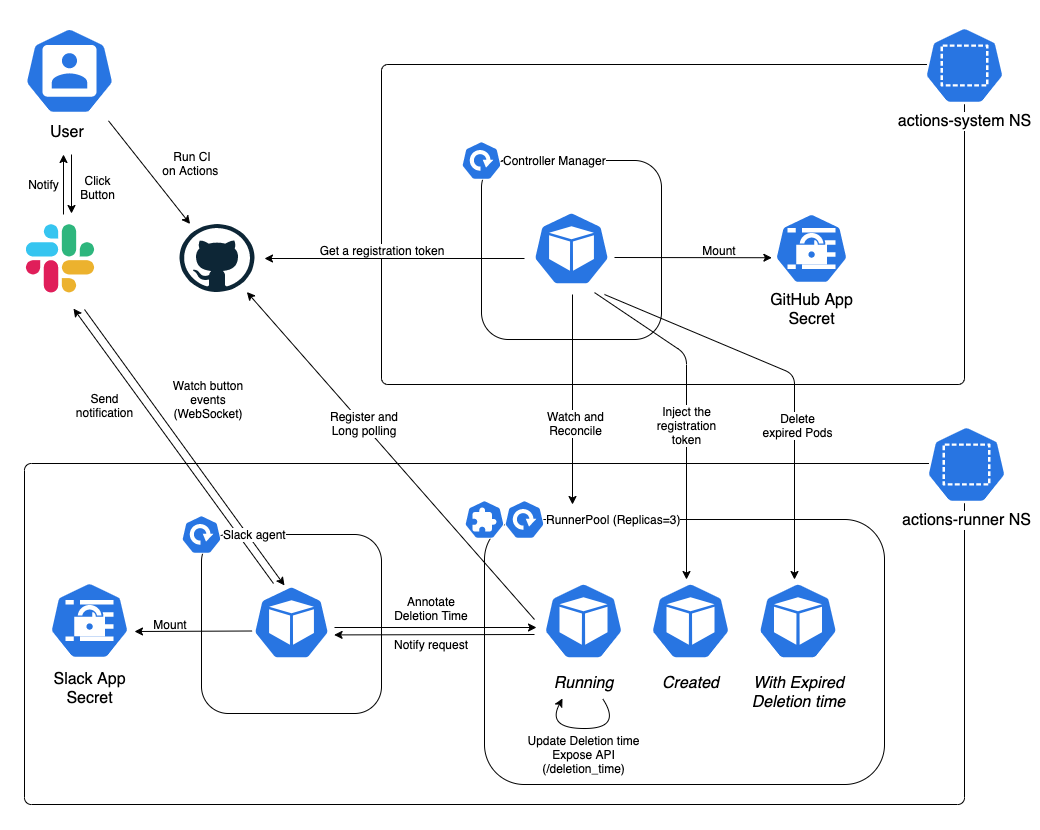
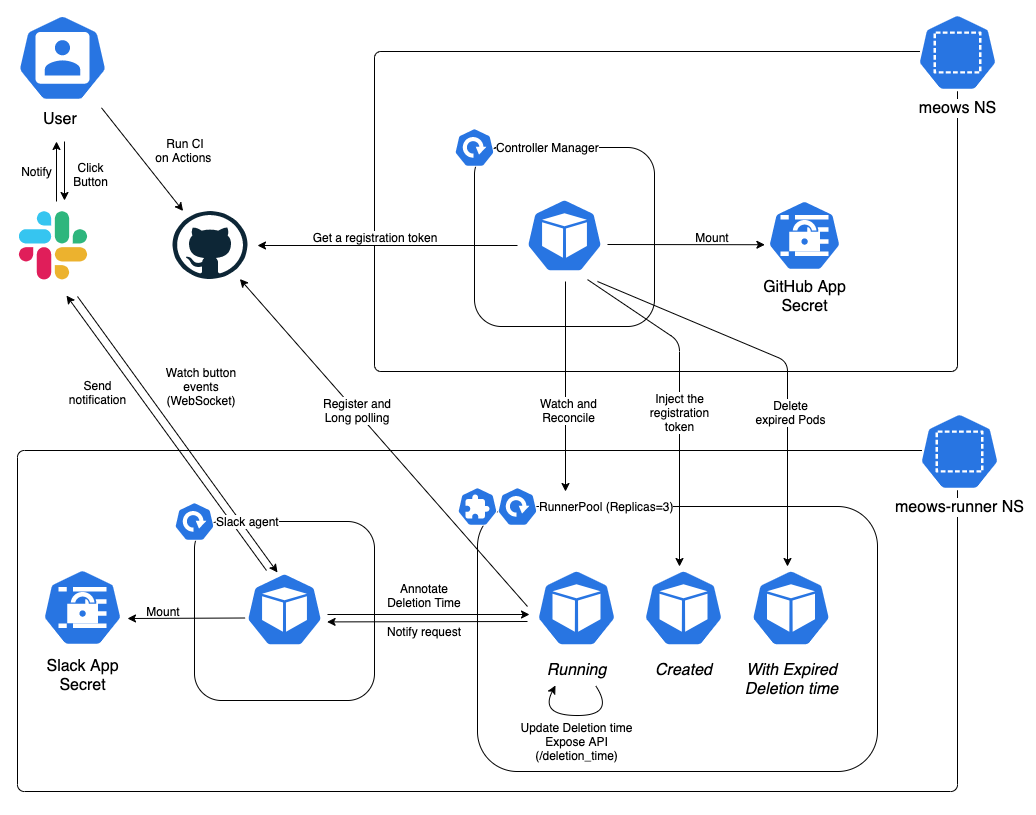
reflect review

diff --git a/CHANGELOG.md b/CHANGELOG.md
@@ -11,5 +11,5 @@ This project adheres to [Semantic Versioning](http://semver.org/).
 
 - Implement github-actions-controller at minimal (#1)
 
-[Unreleased]: https://github.com/cybozu-go/github-actions-controller/compare/v0.1.0...HEAD
-[0.1.0]: https://github.com/cybozu-go/github-actions-controller/compare/0a217cb1de9225c7eba5469ae8b286548a854333...v0.1.0
+[Unreleased]: https://github.com/cybozu-go/meows/compare/v0.1.0...HEAD
+[0.1.0]: https://github.com/cybozu-go/meows/compare/0a217cb1de9225c7eba5469ae8b286548a854333...v0.1.0

diff --git a/docs/design.md b/docs/design.md
@@ -131,7 +131,7 @@ definition. If custom labels are given, users are allowed to set one of the
 custom label value to `runs-on`. This is useful when you want to use multiple
 types of runners, for example, `highmem`and `highcpu`.
 
-github-actions-controller sets the namespaced name of a `RunnerPool` as a custom label.
+meows sets the namespaced name of a `RunnerPool` as a custom label.
 
 ### How self-hosted runners are created and runs jobs
 

diff --git a/docs/user-manual.md b/docs/user-manual.md
@@ -145,7 +145,7 @@ You are responsible for:
 
 After running `Pod`s, you can check if the runners are actually registered to
 GitHub on the **Actions** page under each repository's **Settings**
-(e.g. https://github.com/cybozu-go/github-actions-controller/settings/actions).
+(e.g. https://github.com/cybozu-go/meows/settings/actions).
 
 How to use self-hosted runners
 ------------------------------
